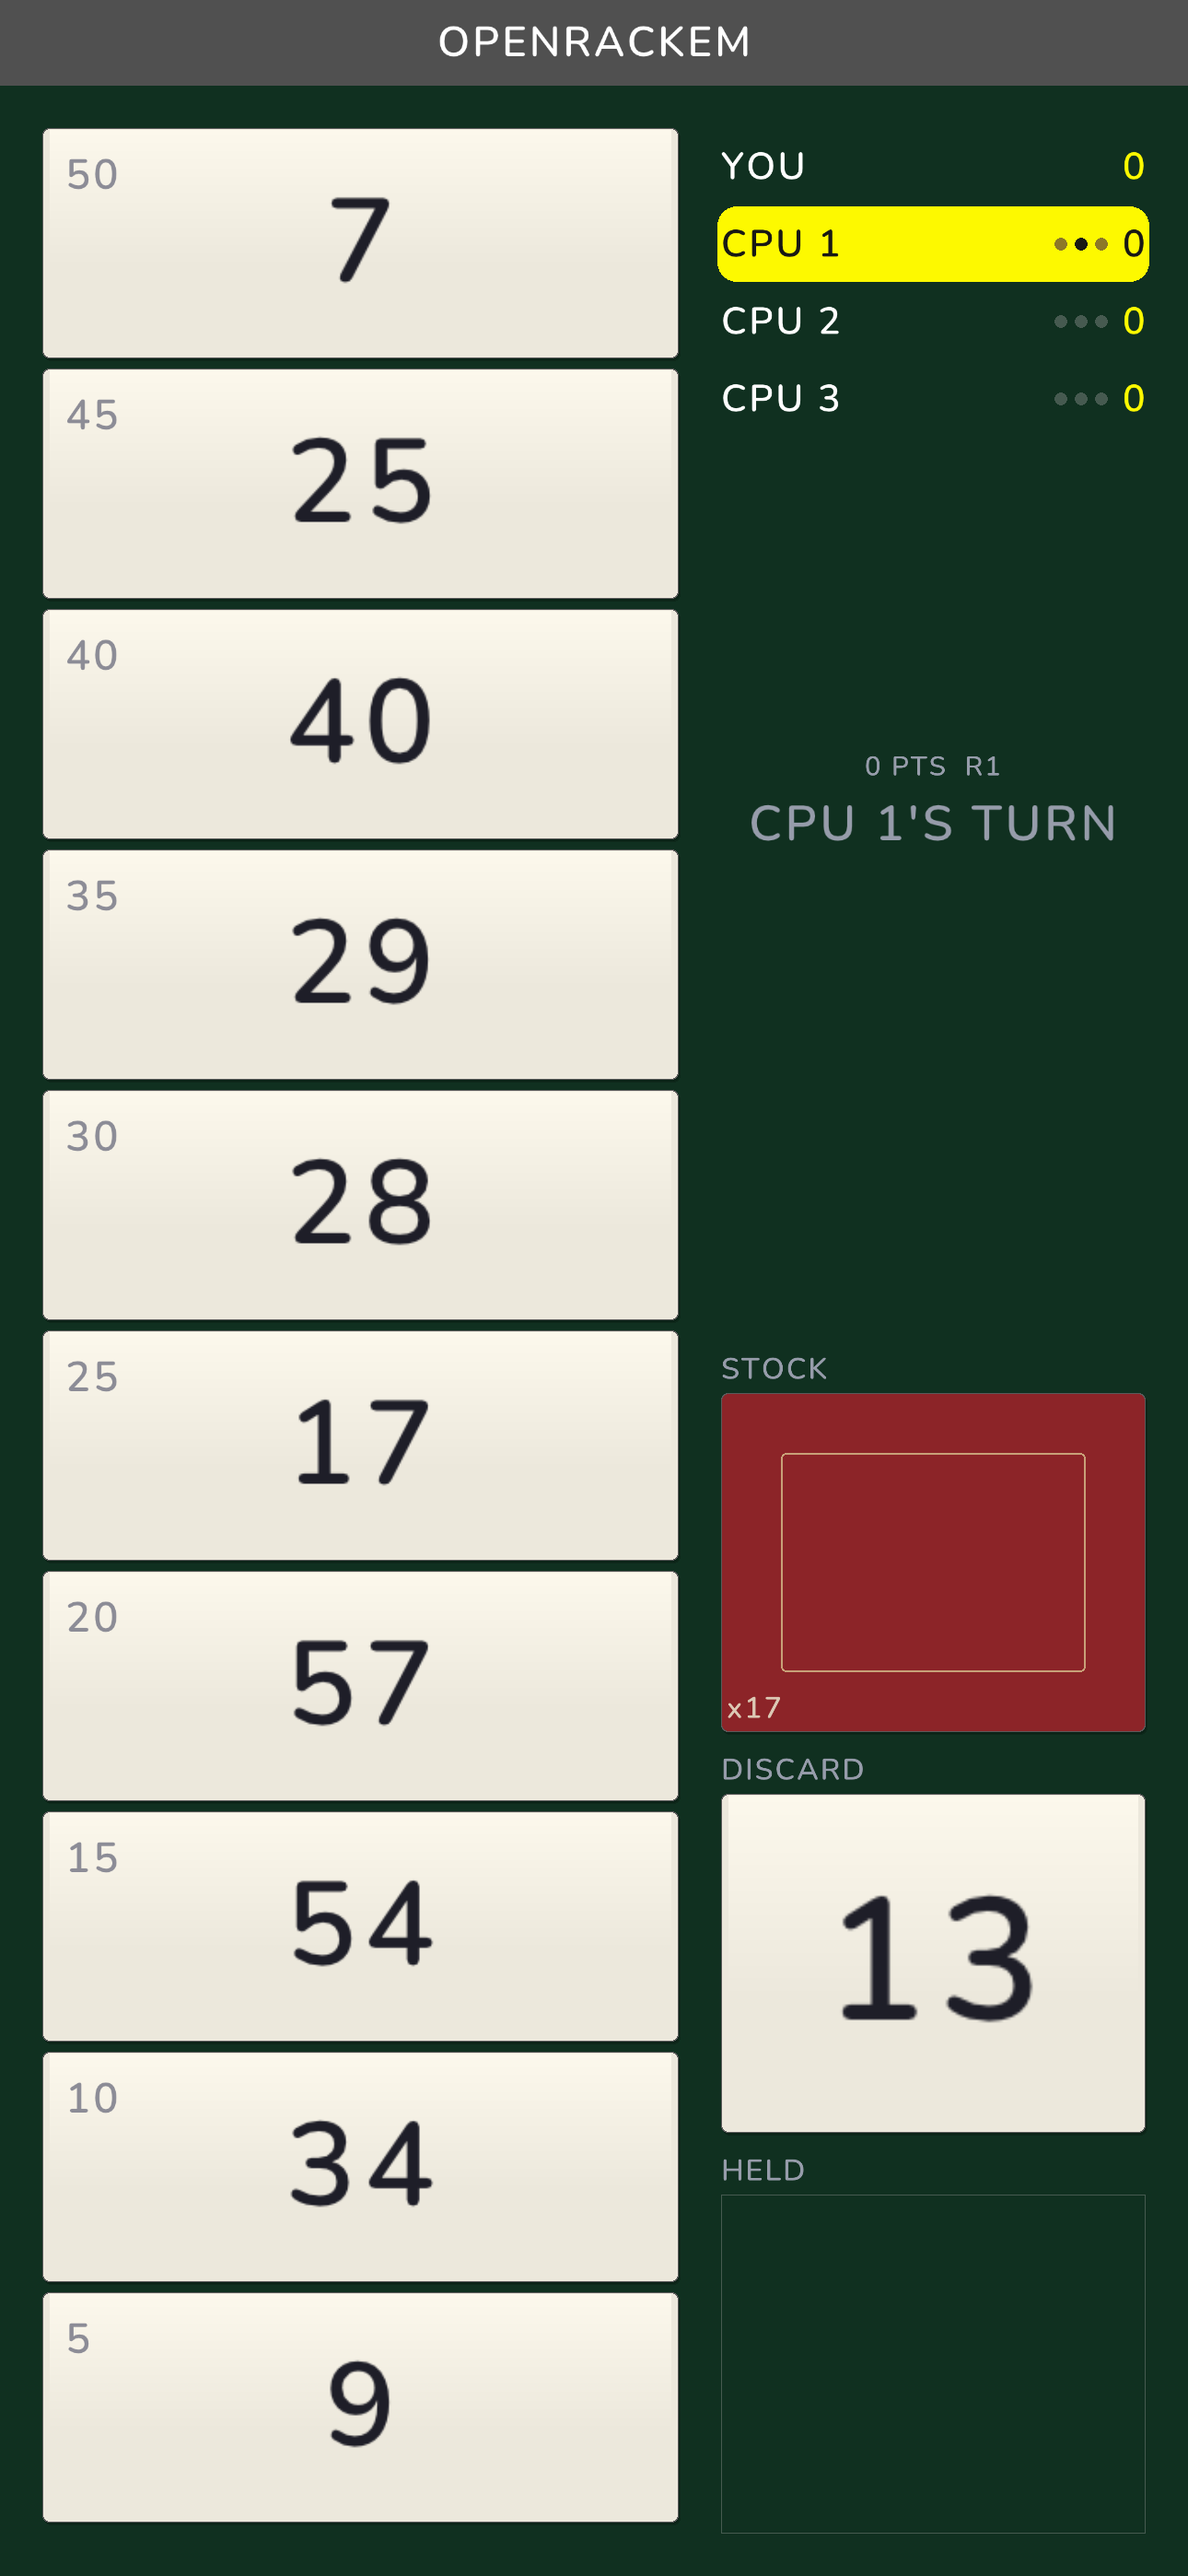
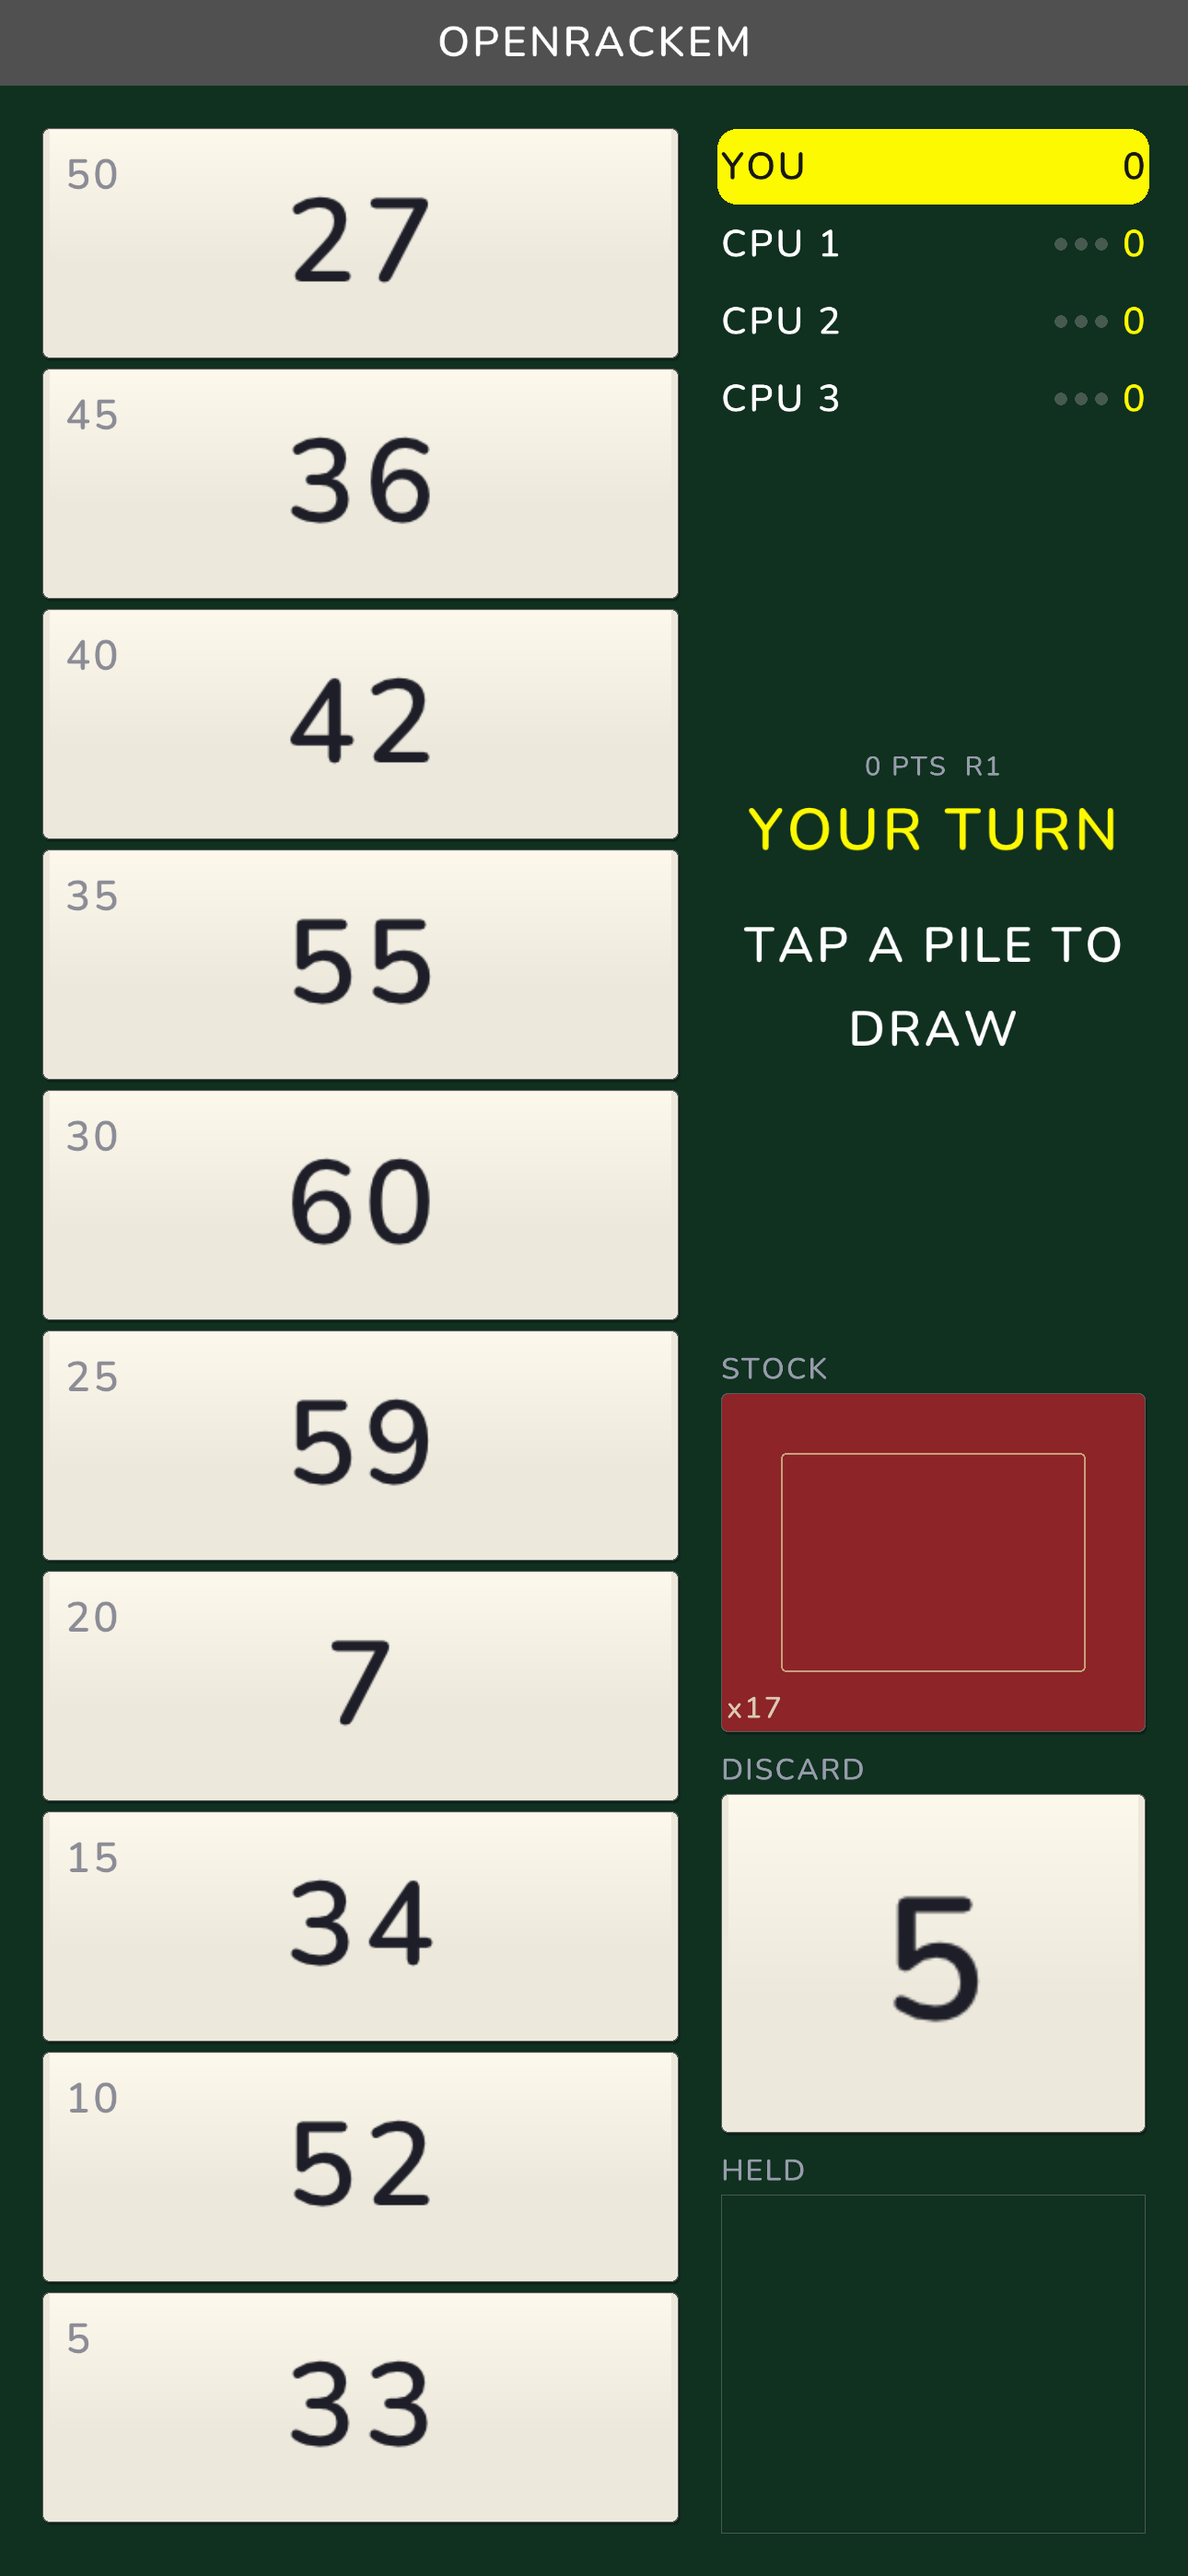
Store screenshots regenerated for the keystream deal
Every seed deals differently now, so the three table scenes (02-table,
03-place, 04-roundover) in the Play phone and tablet sets and the App Store
set are re-shot from the generator; 01-menu and 05-online come out
byte-identical and are untouched.

gen_store_shots.c: the "holding a card" scene held a fixed 33, which the new
deal also put in the player's rack. It now holds the stock's top card, which
is never one already on show.

diff --git a/scripts/gen_store_shots.c b/scripts/gen_store_shots.c
@@ -54,7 +54,9 @@ int main(int argc, char** argv){
     snap("02-table", g, &ui);
 
     // 03: holding a card, choosing a slot.
-    g->turn = 0; g->phase = PHASE_PLACE; g->held_card = 33; g->held_from_discard = false;
+    // The held card is the stock's top one, so it is never a card already on
+    // show (a fixed value could be one the deal put in a rack).
+    g->turn = 0; g->phase = PHASE_PLACE; g->held_card = g->stock[0]; g->held_from_discard = false;
     snap("03-place", g, &ui);
 
     // 04: the round-scoring reveal.
